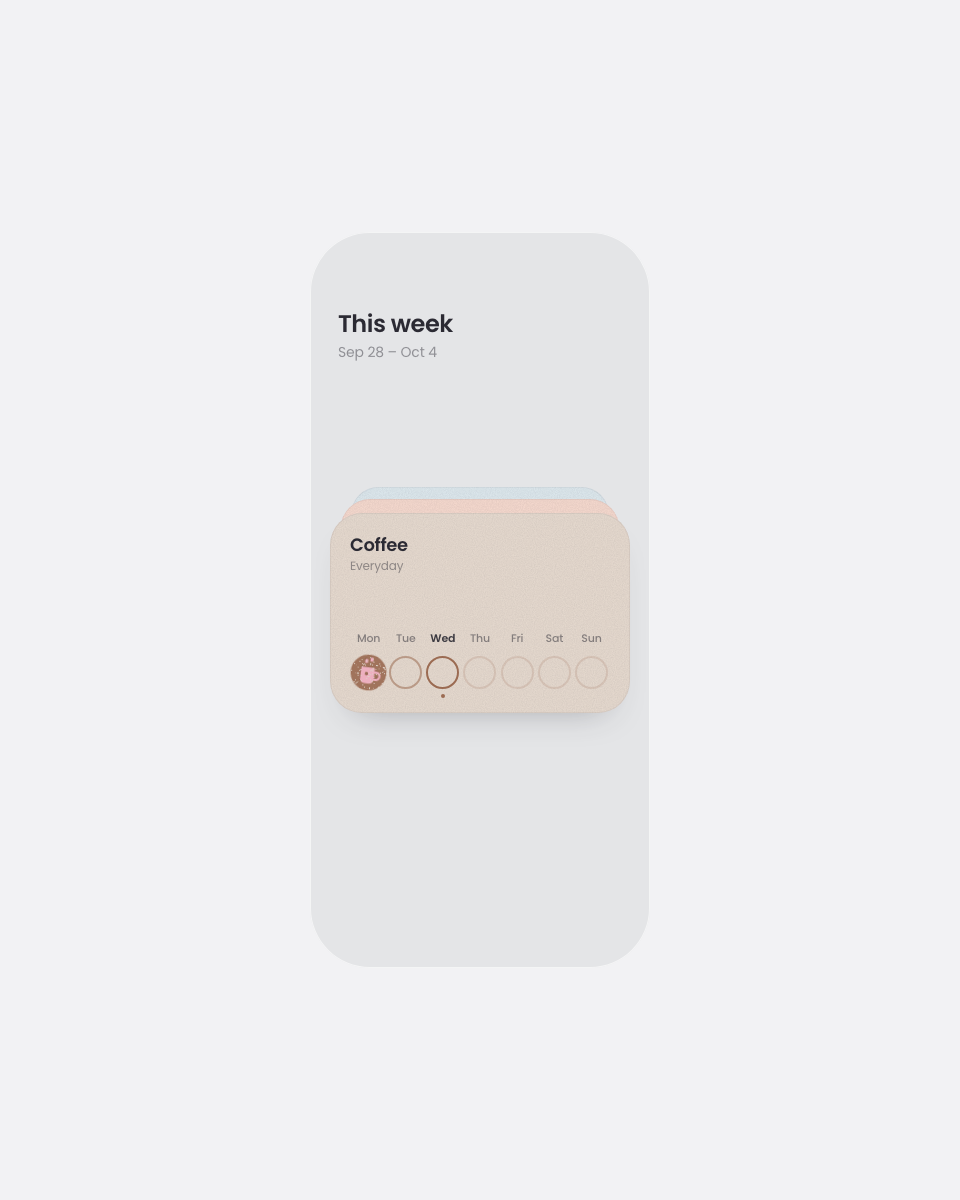
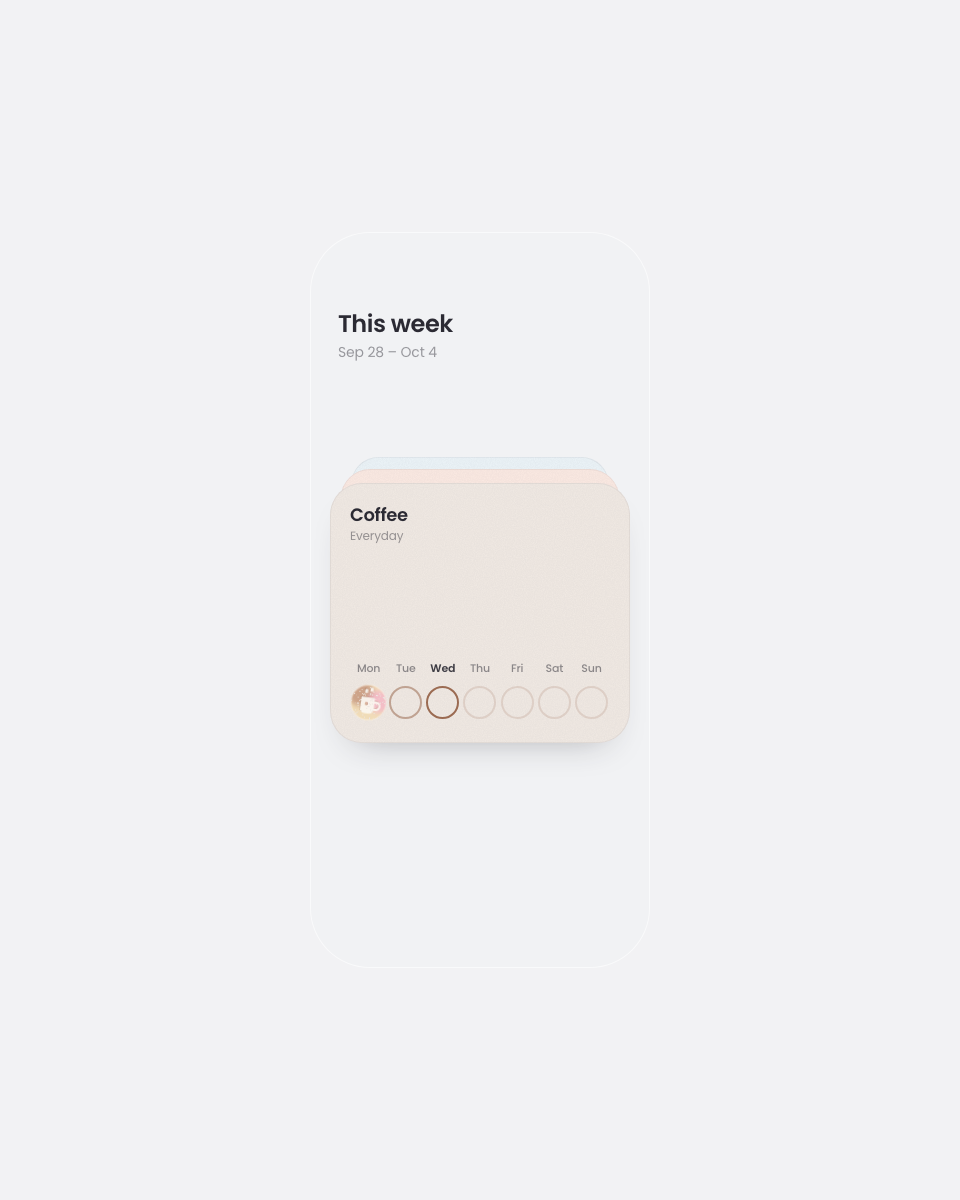
feat: Stamp Tracker — pastel haze stamps, lighter screen, taller cards

Changed region(s): [[0.3438, 0.4008, 0.6562, 0.6167]]

diff --git a/components/data-visualization/stamp-tracker/stamp-tracker.tsx b/components/data-visualization/stamp-tracker/stamp-tracker.tsx
@@ -34,10 +34,10 @@ export type StampTrackerProps = {
 
 /* ───────────────────────────── palette & type ───────────────────────────── */
 
-const PAPER = "#F6F3EC";
+const PAPER = "#FCFBF8";
 const INK = "#2B2A33";
 /** The phone screen the deck sits on: a soft, cool grey with no bezel. */
-const SCREEN = "#E4E5E7";
+const SCREEN = "#F1F2F4";
 const FONT = "var(--font-poppins, Poppins), Poppins, ui-sans-serif, system-ui, sans-serif";
 
 type Habit = {
@@ -48,15 +48,17 @@ type Habit = {
   block: string;
   /** The silhouette printed over the block. */
   figure: string;
+  /** Three soft pastels smudged together inside a stamp, like chalk rubbed into paper. */
+  haze: readonly [string, string, string];
   /** Share of past days that start out stamped. */
   seed: number;
 };
 
 const HABITS: readonly Habit[] = [
-  { id: "coffee", name: "Coffee", frequency: "Everyday", block: "#9B6B52", figure: "#F4B6C8", seed: 0.72 },
-  { id: "move", name: "Move", frequency: "5 days a week", block: "#E8684A", figure: "#F6C35B", seed: 0.7 },
-  { id: "water", name: "Water", frequency: "Everyday", block: "#6FB3E6", figure: "#F5DD4B", seed: 0.7 },
-  { id: "read", name: "Read", frequency: "Everyday", block: "#6CC3A0", figure: "#6E6AC2", seed: 0.7 },
+  { id: "coffee", name: "Coffee", frequency: "Everyday", block: "#9B6B52", figure: "#F4B6C8", haze: ["#C99C84", "#F3B9CA", "#F1DCB8"], seed: 0.72 },
+  { id: "move", name: "Move", frequency: "5 days a week", block: "#E8684A", figure: "#F6C35B", haze: ["#F0907A", "#F7CD7C", "#F5B4C4"], seed: 0.7 },
+  { id: "water", name: "Water", frequency: "Everyday", block: "#6FB3E6", figure: "#F5DD4B", haze: ["#8DBDEB", "#B9B4EA", "#BDE6D8"], seed: 0.7 },
+  { id: "read", name: "Read", frequency: "Everyday", block: "#6CC3A0", figure: "#6E6AC2", haze: ["#8FD3B4", "#ABA7E2", "#EEE6A2"], seed: 0.7 },
 ];
 
 /* ───────────────────────────── layout tokens ───────────────────────────── */
@@ -71,9 +73,9 @@ const HEADING_TOP = 76;
 
 const CARD_MARGIN = 20;
 const CARD_W = SURFACE_W - CARD_MARGIN * 2;
-const CARD_H = 200;
+const CARD_H = 260;
 /** The deck block (peeks plus card) sits at the screen's centre. */
-const DECK_TOP = 281;
+const DECK_TOP = 251;
 const DECK_BOTTOM = SURFACE_H - DECK_TOP - CARD_H;
 const CARD_RADIUS = 32;
 const CARD_PAD = 20;
@@ -112,7 +114,7 @@ type Stamps = Record<HabitId, ReadonlySet<number>>;
 
 /** A card's fill: one flat, pale wash of the habit's ink over paper. */
 function wash(h: Habit) {
-  return `color-mix(in srgb, ${h.block} 20%, ${PAPER})`;
+  return `color-mix(in srgb, ${h.block} 13%, ${PAPER})`;
 }
 
 /* ───────────────────────────── the silhouettes ───────────────────────────── */
@@ -163,20 +165,30 @@ function Figure({ habit, ink }: { habit: HabitId; ink: string }) {
  * it. A faint multiplied ghost of the silhouette, a hair out of register, shows where the
  * two passes overprint. `textured` is the id of a shared riso-ink filter.
  */
-function Print({ habit, textured, freshFigure }: { habit: Habit; textured?: string; freshFigure?: boolean }) {
+/** Ids of the shared defs a stamp's pastel haze needs: a disc to clip to and a blur to smudge with. */
+type HazeIds = { clip: string; blur: string };
+
+function Print({ habit, haze, textured, freshFigure }: { habit: Habit; haze: HazeIds; textured?: string; freshFigure?: boolean }) {
+  const [a, b, c] = habit.haze;
   const content = (
     <>
-      <g style={{ mixBlendMode: "multiply" }}>
-        <circle cx="50" cy="50" r="48" fill={habit.block} opacity="0.92" />
-        {/* Ink pools at the rim of a stamp. */}
-        <circle cx="50" cy="50" r="47.2" fill="none" stroke={habit.block} strokeOpacity="0.35" strokeWidth="3.4" />
+      {/* Three pastels rubbed into each other inside the disc — soft, hazy, no hard edge between them. */}
+      <circle cx="50" cy="50" r="48" fill={c} />
+      <g clipPath={`url(#${haze.clip})`}>
+        <g filter={`url(#${haze.blur})`}>
+          <circle cx="28" cy="30" r="34" fill={a} opacity="0.9" />
+          <circle cx="78" cy="44" r="30" fill={b} opacity="0.85" />
+          <circle cx="40" cy="84" r="28" fill={c} opacity="0.9" />
+        </g>
       </g>
+      {/* A pale bloom where the stamp pressed hardest. */}
+      <circle cx="50" cy="50" r="47" fill="none" stroke="#FFFFFF" strokeOpacity="0.35" strokeWidth="3" />
       <motion.g initial={freshFigure ? { opacity: 0 } : false} animate={{ opacity: 1 }} transition={{ duration: 0.08, delay: 0.04 }}>
-        <g opacity="0.4" transform="translate(1.6 0.9)" style={{ mixBlendMode: "multiply" }}>
+        <g opacity="0.35" transform="translate(1.6 0.9)" style={{ mixBlendMode: "multiply" }}>
           <Figure habit={habit.id} ink={habit.block} />
         </g>
-        <g opacity="0.95" transform="translate(3.5 2.4)">
-          <Figure habit={habit.id} ink={habit.figure} />
+        <g opacity="0.9" transform="translate(3.5 2.4)">
+          <Figure habit={habit.id} ink="#FFFDF8" />
         </g>
       </motion.g>
     </>
@@ -196,11 +208,12 @@ type StampButtonProps = {
   /** Non-zero while a stamp has just been pressed onto this button. */
   slam: number;
   inkFilter: string;
+  haze: HazeIds;
   reduce: boolean;
   onPress: () => void;
 };
 
-function StampButton({ habit, idx, stamped, isToday, disabled, ariaLabel, slam, inkFilter, reduce, onPress }: StampButtonProps) {
+function StampButton({ habit, idx, stamped, isToday, disabled, ariaLabel, slam, inkFilter, haze, reduce, onPress }: StampButtonProps) {
   const v = STAMP;
   const [doneToken, setDoneToken] = React.useState(0);
   const headActive = !reduce && slam !== 0 && slam !== doneToken && stamped;
@@ -242,9 +255,6 @@ function StampButton({ habit, idx, stamped, isToday, disabled, ariaLabel, slam, 
           transition: `opacity ${stamped ? 120 : 200}ms ease ${stamped ? 0 : 140}ms`,
         }}
       />
-      {isToday ? (
-        <span aria-hidden className="absolute rounded-full" style={{ width: 4, height: 4, left: "50%", bottom: -9, marginLeft: -2, background: habit.block }} />
-      ) : null}
 
       <AnimatePresence initial={false}>
         {stamped && !headActive ? (
@@ -261,7 +271,7 @@ function StampButton({ habit, idx, stamped, isToday, disabled, ariaLabel, slam, 
             exit={{ scale: 0.92, opacity: 0, transition: { duration: reduce ? 0.12 : 0.2 } }}
             transition={fresh ? { duration: 0.22, times: [0, 0.45, 1], ease: "easeOut" } : { duration: reduce ? 0.12 : 0.25 }}
           >
-            <Print habit={habit} textured={inkFilter} freshFigure={fresh} />
+            <Print habit={habit} haze={haze} textured={inkFilter} freshFigure={fresh} />
           </motion.svg>
         ) : null}
       </AnimatePresence>
@@ -284,7 +294,7 @@ function StampButton({ habit, idx, stamped, isToday, disabled, ariaLabel, slam, 
           }}
           onAnimationComplete={() => setDoneToken(slam)}
         >
-          <Print habit={habit} />
+          <Print habit={habit} haze={haze} />
         </motion.svg>
       ) : null}
 
@@ -322,7 +332,7 @@ type DeckCardProps = {
   stamps: Stamps;
   todayIdx: number;
   pressed: { habit: HabitId; idx: number; token: number } | null;
-  inkFilters: { day: string; grain: string };
+  inkFilters: { day: string; grain: string; haze: HazeIds };
   reduce: boolean;
   onToggle: (habit: HabitId, idx: number) => void;
   onSwipe: (dir: 1 | -1) => void;
@@ -390,7 +400,7 @@ function DeckCard({ habit, depth, entered, x, stamps, todayIdx, pressed, inkFilt
       }}
     >
       {/* Printed grain over the wash, so the card reads as ink on paper, not a screen. */}
-      <svg aria-hidden className="pointer-events-none absolute inset-0" width="100%" height="100%" style={{ opacity: 0.1, mixBlendMode: "multiply" }}>
+      <svg aria-hidden className="pointer-events-none absolute inset-0" width="100%" height="100%" style={{ opacity: 0.05, mixBlendMode: "multiply" }}>
         <rect width="100%" height="100%" filter={`url(#${inkFilters.grain})`} />
       </svg>
 
@@ -428,6 +438,7 @@ function DeckCard({ habit, depth, entered, x, stamps, todayIdx, pressed, inkFilt
                 ariaLabel={`${habit.name}, ${WEEKDAYS_LONG[i]} — ${stamps[habit.id].has(i) ? "stamped" : "not stamped"}`}
                 slam={slamFor(i)}
                 inkFilter={inkFilters.day}
+                haze={inkFilters.haze}
                 reduce={reduce}
                 onPress={guarded(i)}
               />
@@ -638,7 +649,7 @@ export function StampTracker({ today = DEFAULT_TODAY, loop = false, onChange, cl
     void advance(event.key === "ArrowRight" ? 1 : -1);
   };
 
-  const inkFilters = { day: `${uid}-day`, grain: `${uid}-grain` };
+  const inkFilters = { day: `${uid}-day`, grain: `${uid}-grain`, haze: { clip: `${uid}-disc`, blur: `${uid}-haze` } };
 
   return (
     <MotionConfig reducedMotion="user">
@@ -661,6 +672,12 @@ export function StampTracker({ today = DEFAULT_TODAY, loop = false, onChange, cl
         {/* Shared textures: the stamps' ink and the cards' paper grain. */}
         <svg width="0" height="0" aria-hidden style={{ position: "absolute" }}>
           <defs>
+            <clipPath id={inkFilters.haze.clip}>
+              <circle cx="50" cy="50" r="48" />
+            </clipPath>
+            <filter id={inkFilters.haze.blur} x="-30%" y="-30%" width="160%" height="160%">
+              <feGaussianBlur stdDeviation="7" />
+            </filter>
             <filter id={inkFilters.day} x="-8%" y="-8%" width="116%" height="116%" colorInterpolationFilters="sRGB">
               <feTurbulence type="fractalNoise" baseFrequency="0.05" numOctaves="2" seed="11" result="warp" />
               <feDisplacementMap in="SourceGraphic" in2="warp" scale="3.2" xChannelSelector="R" yChannelSelector="G" result="rough" />

diff --git a/src/lib/component-registry.ts b/src/lib/component-registry.ts
@@ -345,7 +345,7 @@ export const componentRegistry = {
     index: "018",
     title: "Stamp Tracker",
     description:
-      "A week of four habits on a bare, soft-grey phone screen — a deck of small cards, each a flat wash of its own riso ink, sits under a quiet “This week” heading; swipe through coffee, move, water and read while the cards behind peek out above the front one. The seven day-circles are the point: tap one and a rubber stamp slams down, leaving a flat disc with a rounded silhouette printed a hair out of register, rough-edged and speckled",
+      "A week of four habits on a bare, pale phone screen — a deck of cards, each a flat wash of its own ink, sits under a quiet “This week” heading; swipe through coffee, move, water and read while the cards behind peek out above the front one. The seven day-circles are the point: tap one and a rubber stamp slams down, leaving a soft disc of three pastels rubbed into each other like chalk, a pale silhouette printed a hair out of register, rough-edged and speckled",
     category: "Data Visualization",
     status: "NEW",
     statusClassName: "bg-[var(--jitter-orange)]/12 text-[var(--jitter-orange)]",

diff --git a/components/data-visualization/stamp-tracker/README.md b/components/data-visualization/stamp-tracker/README.md
@@ -1,6 +1,6 @@
 # Stamp Tracker
 
-A week of four habits on a bare, soft-grey phone screen — a deck of small cards, each a flat wash of its own riso ink, sits under a quiet “This week” heading; swipe through coffee, move, water and read while the cards behind peek out above the front one. The seven day-circles are the point: tap one and a rubber stamp slams down, leaving a flat disc with a rounded silhouette printed a hair out of register, rough-edged and speckled
+A week of four habits on a bare, pale phone screen — a deck of cards, each a flat wash of its own ink, sits under a quiet “This week” heading; swipe through coffee, move, water and read while the cards behind peek out above the front one. The seven day-circles are the point: tap one and a rubber stamp slams down, leaving a soft disc of three pastels rubbed into each other like chalk, a pale silhouette printed a hair out of register, rough-edged and speckled
 
 ![Stamp Tracker preview](https://raw.githubusercontent.com/michellesijiama/atomicmotion-ui/main/public/previews/stamp-tracker.png)
 
